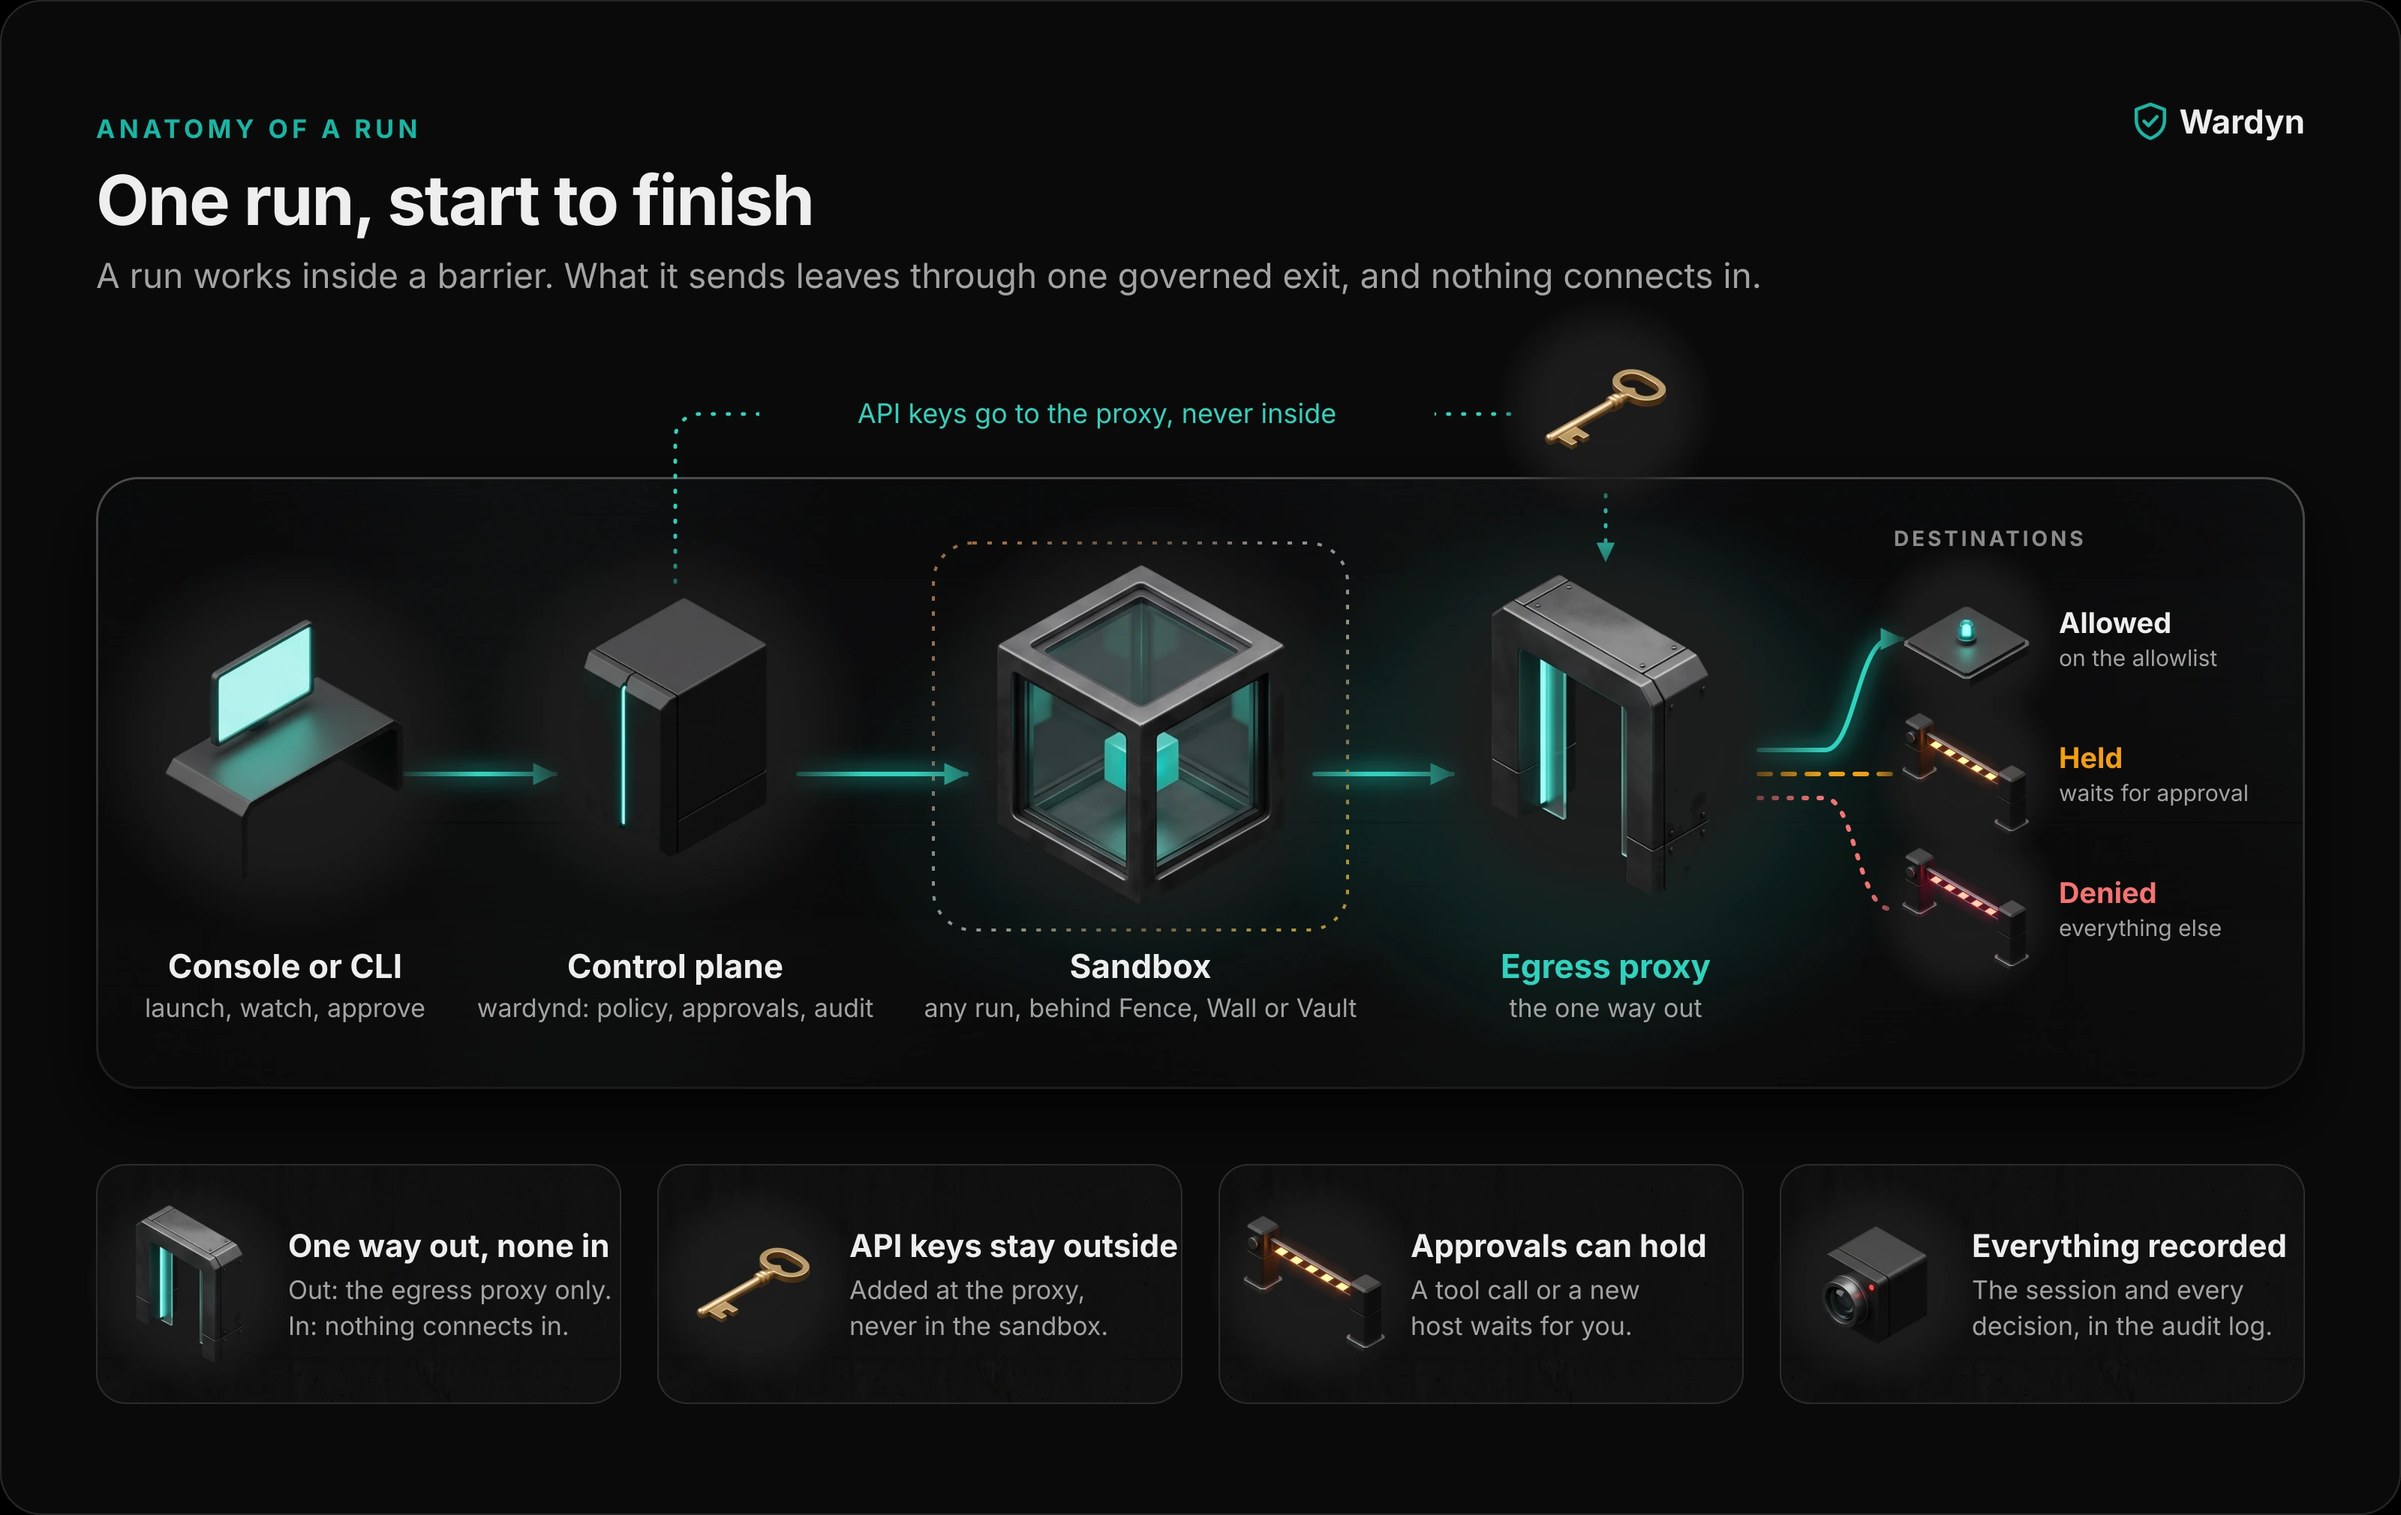
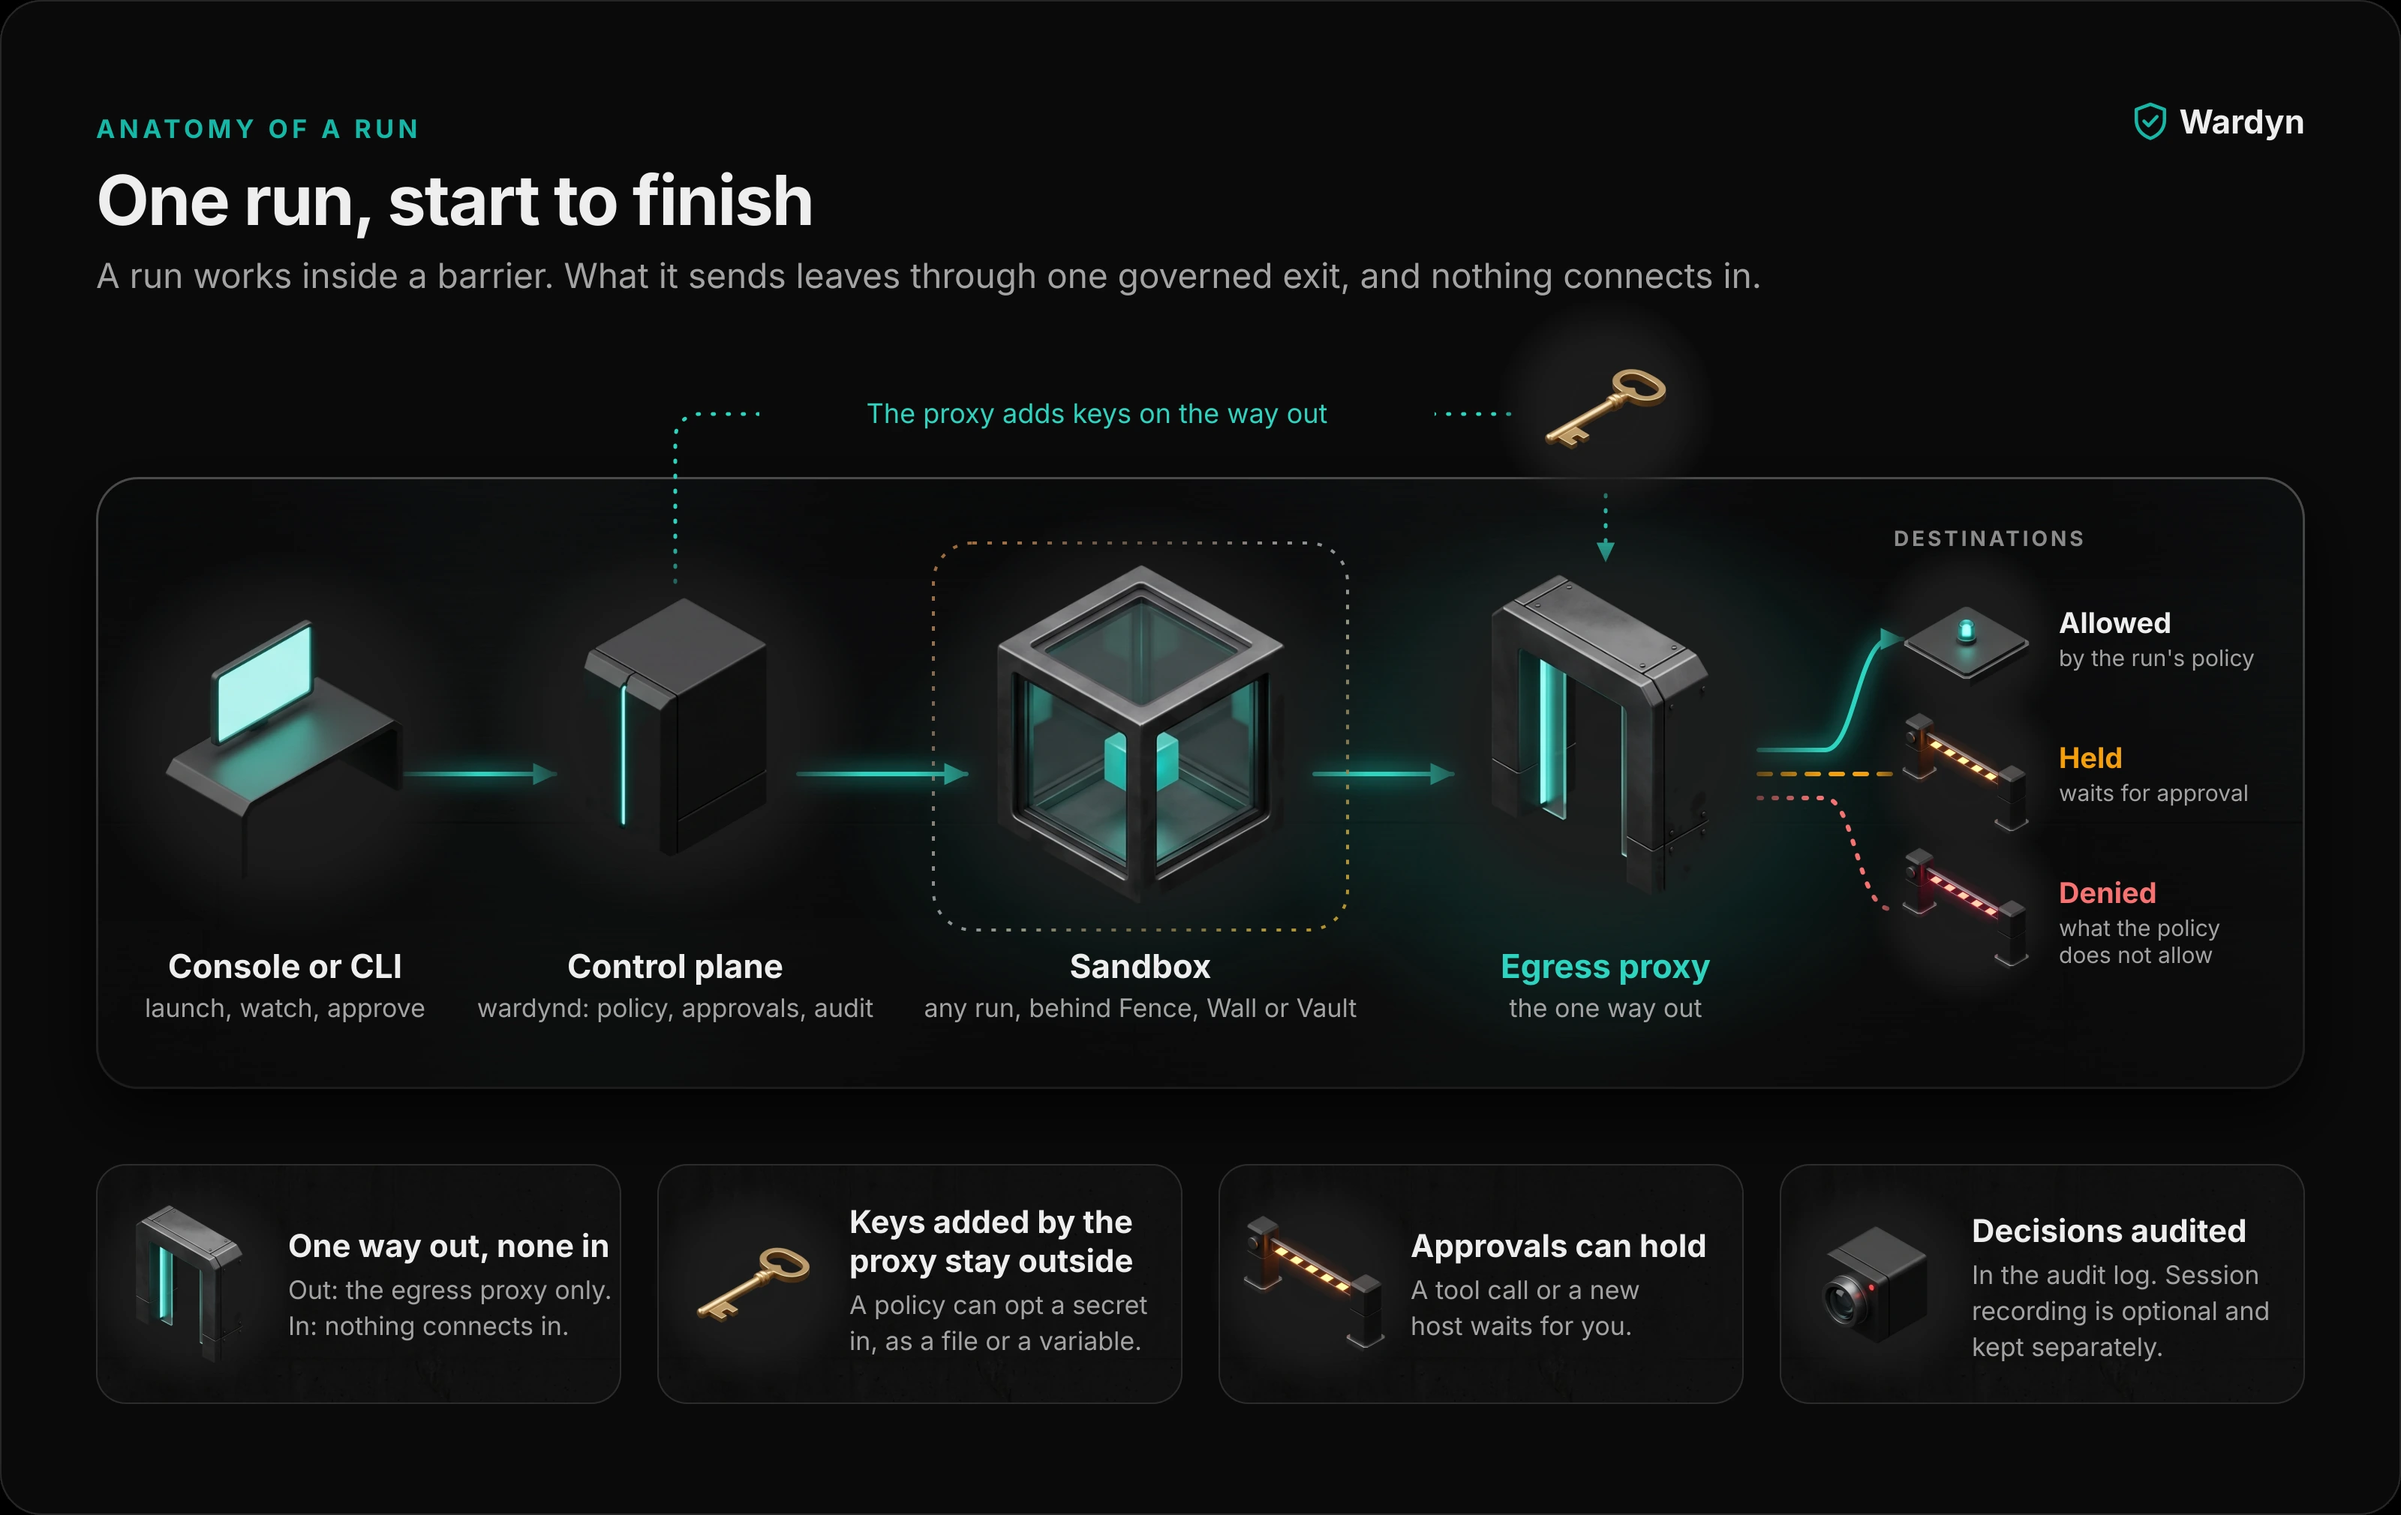
docs: replace three figures with corrected labels and update alt text
Swap the places, laptop and run figures for the rebuilt versions whose labels
no longer overclaim, and set every figure's alt text to the final wording,
the same on every page that shows it. Budgets grow by the alt-text words only.

diff --git a/README.md b/README.md
@@ -6,9 +6,9 @@
 - Anything you run under your own credentials inherits your full blast radius; Wardyn is the layer in between — per-run identity, credentials minted and revoked per run, one audited path off-host, no resident key.
 - Coding agents are the flagship use.
 
-![Isometric walled compound: one outer wall around a datacentre and people's devices; glowing sandboxes each sit behind Wardyn's inner wall; the org control plane links by policy and audit.](docs/img/wardyn-walls.webp)
+![An isometric compound where one outer wall surrounds a datacentre and people's devices, each sandbox sits behind Wardyn's inner wall, and the org control plane links by policy and audit.](docs/img/wardyn-walls.webp)
 
-![One outer wall around a cloud zone and people's devices; each sandbox, in the cluster or on a laptop, has its own inner wall and egress proxy; nothing connects in.](docs/img/wardyn-places.webp)
+![One outer wall surrounds the cloud zone and people's devices; each sandbox has its own inner wall and proxy, nothing connects in, and keys added by the proxy never enter.](docs/img/wardyn-places.webp)
 
 ## Before you start
 
@@ -187,7 +187,7 @@ wardyn setup status   # what's configured + the next command per unmet check
 
 ## Architecture at a glance
 
-![A run from left to right: console, control plane, sandbox behind a barrier, egress proxy, then destinations that are allowed, held or denied; API keys go to the proxy.](docs/img/wardyn-run.webp)
+![A run from left to right: console, control plane, sandbox behind a barrier, egress proxy, then destinations allowed, held or denied by policy; keys added by the proxy stay outside.](docs/img/wardyn-run.webp)
 
 ```mermaid
 flowchart LR

diff --git a/docs/README.md b/docs/README.md
@@ -3,9 +3,9 @@
 - Start at the repo [README](../README.md) — it, the in-product Getting Started wizard — with its built-in demo steps — is the first-run path.
 - Everything here is the next question.
 
-![Isometric walled compound: one outer wall around a datacentre and people's devices; glowing sandboxes each sit behind Wardyn's inner wall; the org control plane links by policy and audit.](img/wardyn-walls.webp)
+![An isometric compound where one outer wall surrounds a datacentre and people's devices, each sandbox sits behind Wardyn's inner wall, and the org control plane links by policy and audit.](img/wardyn-walls.webp)
 
-![One outer wall around a cloud zone and people's devices; each sandbox, in the cluster or on a laptop, has its own inner wall and egress proxy; nothing connects in.](img/wardyn-places.webp)
+![One outer wall surrounds the cloud zone and people's devices; each sandbox has its own inner wall and proxy, nothing connects in, and keys added by the proxy never enter.](img/wardyn-places.webp)
 
 ## Index
 

diff --git a/threatmodel/THREAT-MODEL.md b/threatmodel/THREAT-MODEL.md
@@ -3723,7 +3723,7 @@ injected script whatever the CSP says.
 - Policy may mandate a minimum CC; the control plane refuses to schedule runs on substrates that
   cannot satisfy the policy.
 
-![Three barrier strengths compared: Fence (CC1), Wall (CC2, default) and Vault (CC3, experimental), showing what each isolates; egress and credentials are set by policy, not the barrier.](../docs/img/wardyn-barriers.webp)
+![Three barrier strengths compared, Fence (CC1), Wall (CC2, default) and Vault (CC3, experimental), showing what each isolates, with egress and credentials set by policy, not the barrier.](../docs/img/wardyn-barriers.webp)
 
 ```mermaid
 flowchart TB

diff --git a/docs/DESKTOP.md b/docs/DESKTOP.md
@@ -8,7 +8,7 @@
 
 ## Topology
 
-![One enrolled laptop: everyday work takes the normal path; sandboxes leave only through their egress proxy, nothing on the network connects in, and audit goes to the org control plane.](img/wardyn-laptop.webp)
+![On an enrolled laptop, everyday work takes the normal path while each sandbox leaves only through its egress proxy, nothing connects in, and keys added by the proxy stay outside.](img/wardyn-laptop.webp)
 
 ```
        MDM (Jamf / Intune / …)
